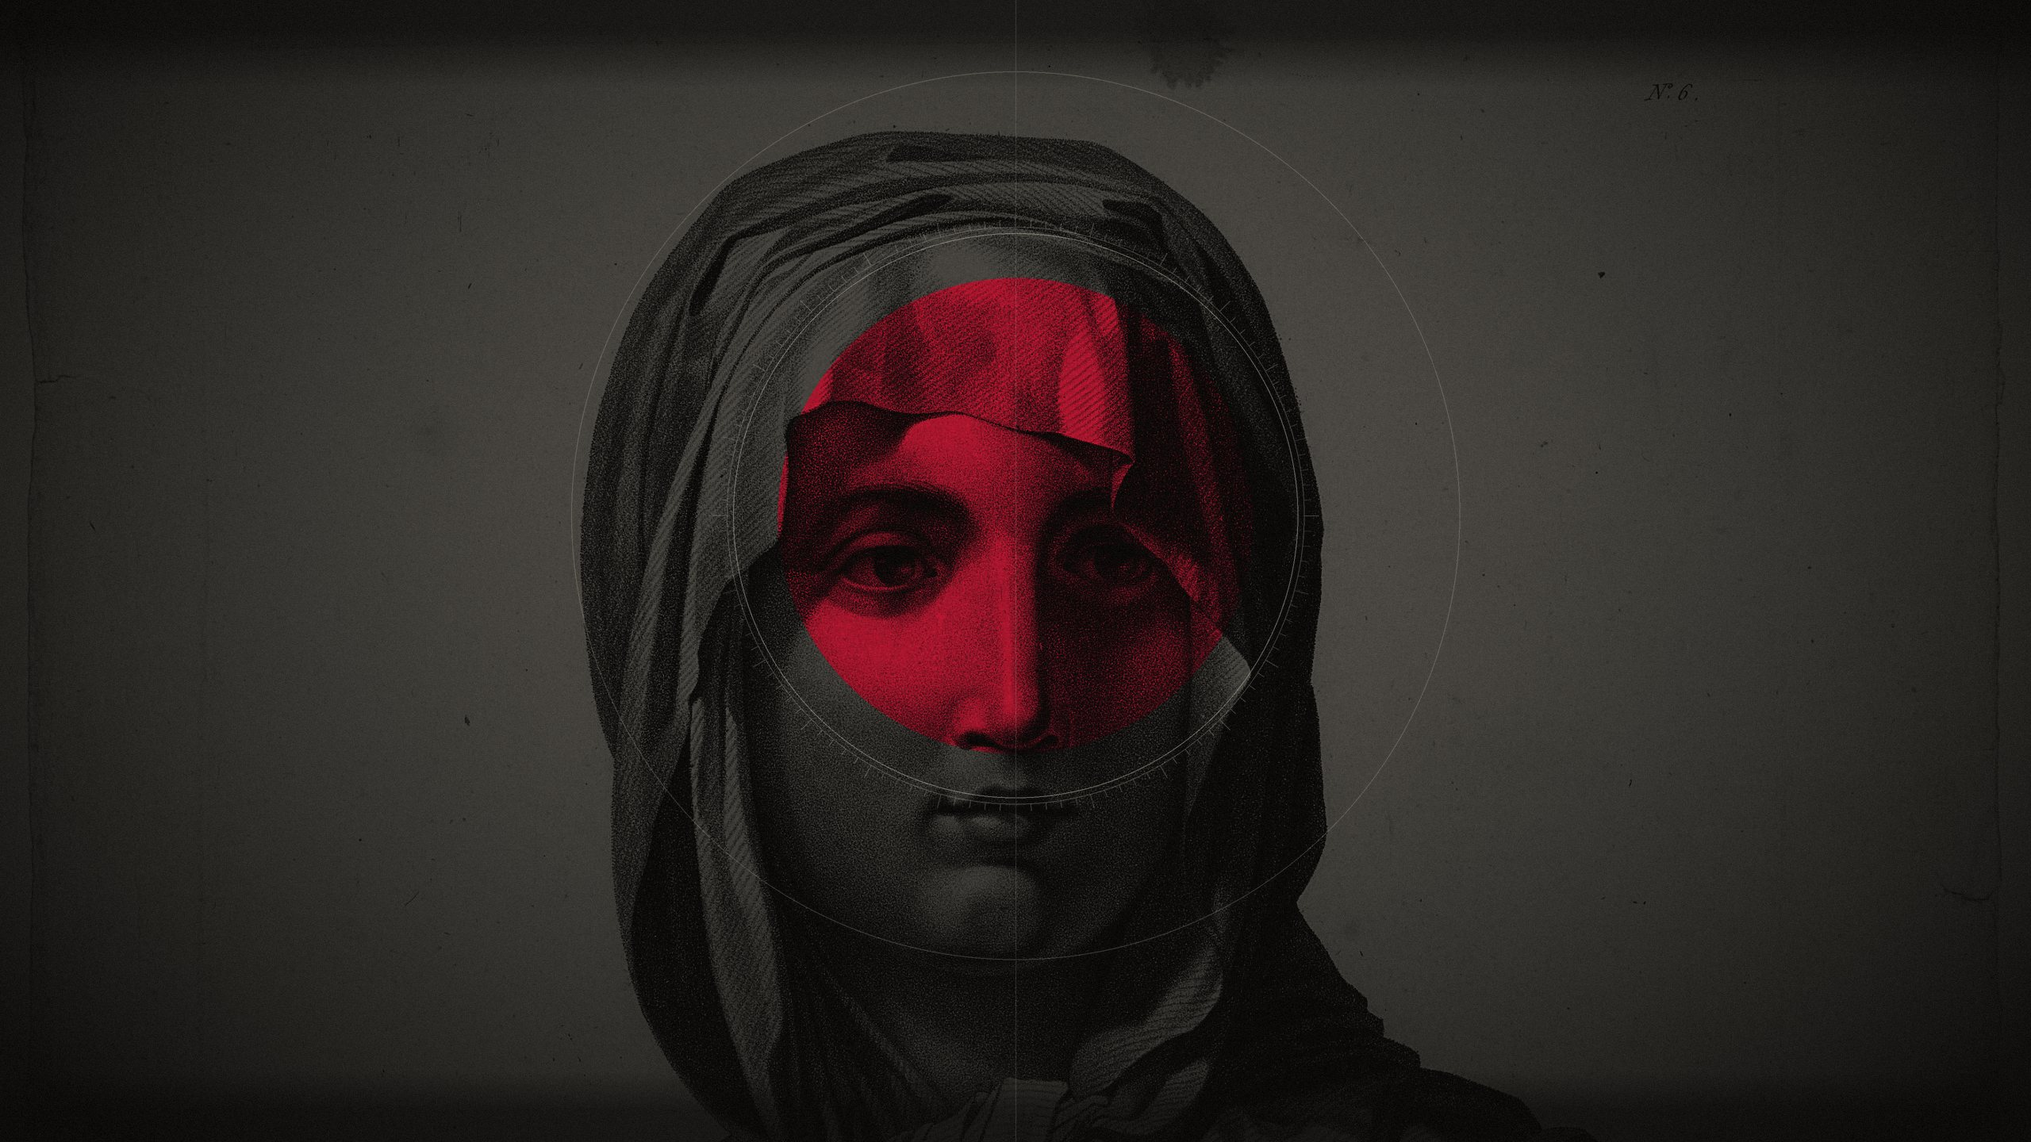
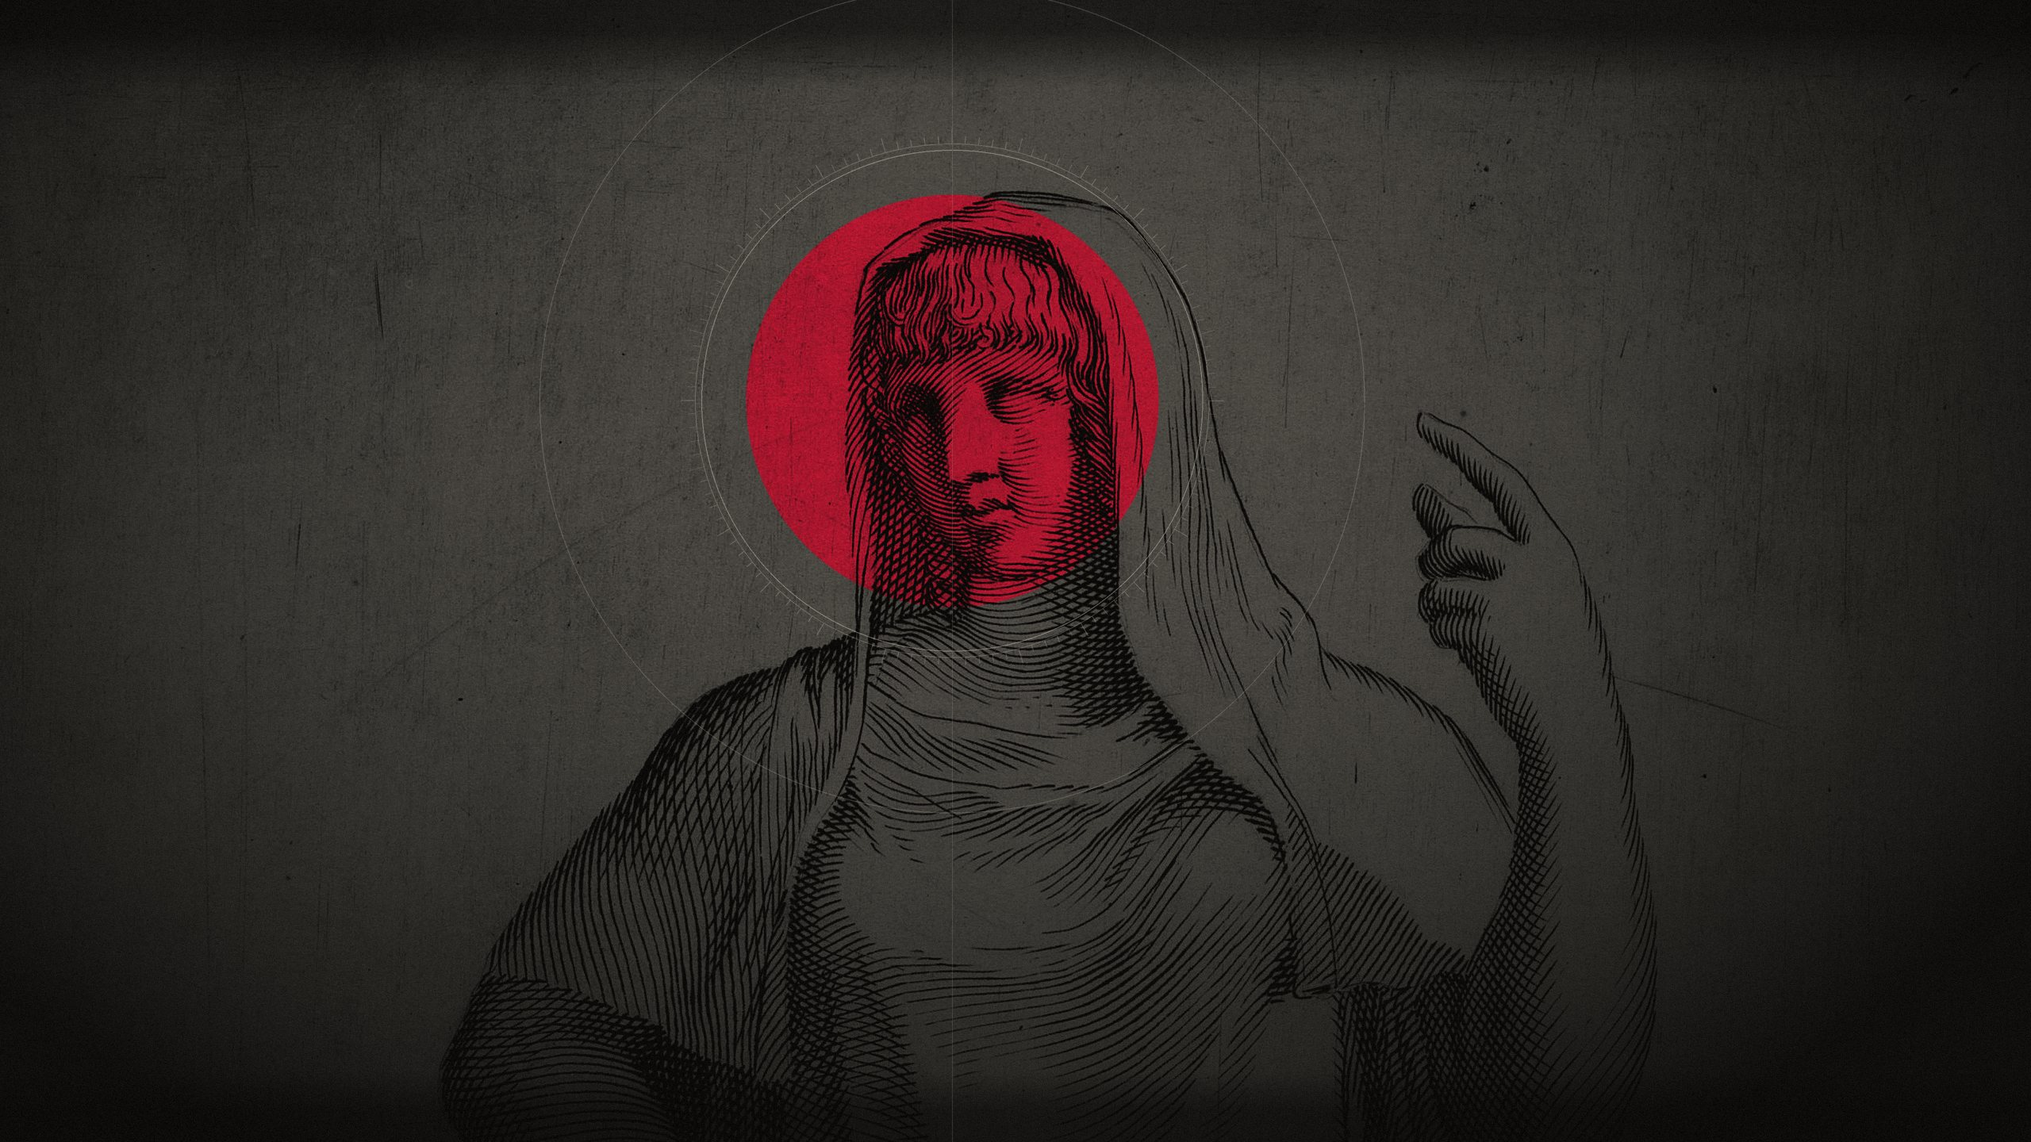
feat(theme): change the plates of Carna and Apollo
Carna is now Claude Mellan's veiled vestal of the Giustiniani collection (1631, Rijksmuseum), Apollo is Goltzius's Sol in his niche (1592, Art Institute of Chicago), which matches Mercurius, Pluto and Bacchus. The wallpaper README now lists the plates from the live data.

Changed region(s): [[0.2188, 0.0938, 0.7812, 0.9688]]

diff --git a/design-system/components/Pantheon/preview.html b/design-system/components/Pantheon/preview.html
@@ -24,7 +24,7 @@
 </div>
 <script>
 Kit.hydrate(document);
-var P = [["carna", "../../assets/Wallpapers/carna.jpg", "Carna", "Cazenave, about 1800", "Carna, keeper of the threshold, who drives the striges from the cradle. No ancient likeness survives; the plate is a veiled vestal, engraved by J. F. Cazenave", "#c8102e"], ["janus", "../../assets/Wallpapers/janus.jpg", "Janus", "Audenaerd, about 1700", "Janus with both faces opens the door of the year. Engraved by Robert van Audenaerd after Carlo Maratta", "#688f7f"], ["apollo", "../../assets/Wallpapers/apollo.jpg", "Apollo", "Goltzius, 1592", "The Apollo Belvedere. Engraved by Hendrick Goltzius, Haarlem, about 1592", "#b5925a"], ["mars", "../../assets/Wallpapers/mars.jpg", "Mars", "Quellinus, 1655", "Mars in armour, a dragon on his helmet. Hubert Quellinus after the statue by Artus Quellinus, Amsterdam, 1655", "#9f5836"], ["minerva", "../../assets/Wallpapers/minerva.jpg", "Minerva", "Saenredam, 1595", "Minerva with helmet, spear and owl. Engraved by Jan Saenredam after Hendrick Goltzius, about 1595", "#878a5d"], ["mercurius", "../../assets/Wallpapers/mercurius.jpg", "Mercurius", "Goltzius, 1592", "Mercurius in his niche. Engraved by Hendrick Goltzius after Polidoro da Caravaggio, 1592", "#546d85"], ["pluto", "../../assets/Wallpapers/pluto.jpg", "Pluto", "Goltzius, 1592", "Pluto in his niche. Engraved by Hendrick Goltzius after Polidoro da Caravaggio, 1592", "#746388"], ["bacchus", "../../assets/Wallpapers/bacchus.jpg", "Bacchus", "Goltzius, 1592", "Bacchus in his niche. Engraved by Hendrick Goltzius after Polidoro da Caravaggio, 1592", "#93535e"]];
+var P = [["carna", "../../assets/Wallpapers/carna.jpg", "Carna", "Mellan, 1631", "Carna, keeper of the threshold, who drives the striges from the cradle. No ancient likeness survives; the plate is a veiled vestal of the Giustiniani collection, engraved by Claude Mellan, Rome, 1631", "#c8102e"], ["janus", "../../assets/Wallpapers/janus.jpg", "Janus", "Audenaerd, about 1700", "Janus with both faces opens the door of the year. Engraved by Robert van Audenaerd after Carlo Maratta", "#688f7f"], ["apollo", "../../assets/Wallpapers/apollo.jpg", "Apollo", "Goltzius, 1592", "Apollo as Sol, the sun, with lyre and quiver in his niche. Engraved by Hendrick Goltzius after Polidoro da Caravaggio, 1592", "#b5925a"], ["mars", "../../assets/Wallpapers/mars.jpg", "Mars", "Quellinus, 1655", "Mars in armour, a dragon on his helmet. Hubert Quellinus after the statue by Artus Quellinus, Amsterdam, 1655", "#9f5836"], ["minerva", "../../assets/Wallpapers/minerva.jpg", "Minerva", "Saenredam, 1595", "Minerva with helmet, spear and owl. Engraved by Jan Saenredam after Hendrick Goltzius, about 1595", "#878a5d"], ["mercurius", "../../assets/Wallpapers/mercurius.jpg", "Mercurius", "Goltzius, 1592", "Mercurius in his niche. Engraved by Hendrick Goltzius after Polidoro da Caravaggio, 1592", "#546d85"], ["pluto", "../../assets/Wallpapers/pluto.jpg", "Pluto", "Goltzius, 1592", "Pluto in his niche. Engraved by Hendrick Goltzius after Polidoro da Caravaggio, 1592", "#746388"], ["bacchus", "../../assets/Wallpapers/bacchus.jpg", "Bacchus", "Goltzius, 1592", "Bacchus in his niche. Engraved by Hendrick Goltzius after Polidoro da Caravaggio, 1592", "#93535e"]];
 
 (function () {
   var scr = document.getElementById('scr'), track = document.getElementById('track'), car = document.getElementById('car'), rev = document.getElementById('rev'), base = document.getElementById('base');

diff --git a/design-system/components/Desktop/preview.html b/design-system/components/Desktop/preview.html
@@ -30,7 +30,7 @@
     <button class="k-power" aria-label="Session"><i class="k-icon" data-icon="power"></i></button>
   </div>
 </div></div>
-  <div class="k-plate" id="plate">Carna. A veiled vestal, engraved by J. F. Cazenave, about 1800</div>
+  <div class="k-plate" id="plate">Carna. A veiled vestal, engraved by Claude Mellan, Rome, 1631</div>
   <div id="tiles" data-hidden>
     <div class="k-win" data-active><div class="k-win-body"><pre class="k-code"><span class="ln"> 1</span>  <span class="cm">// Reads a theme and checks its contrast rules.</span>
 <span class="ln"> 2</span>  <span class="kw">use</span> <span class="ty">std::path::Path</span><span class="op">;</span>

diff --git a/tools/docs.py b/tools/docs.py
@@ -77,7 +77,7 @@ The default theme has eight aspects, one for each god of its wallpapers. Choosin
 ## Ornament
 
 - `.k-rule` is a hair line with a small open lozenge in the middle, as between the parts of an old title page. Use it once in a view to part the mood from the matter: under the wordmark, between the date and the weather, above the update card.
-- `.k-plate` is a plate caption: one line of serif italic naming a picture, in the form "The Apollo Belvedere. Engraved by Hendrick Goltzius, Haarlem, about 1592". Every engraving shown full screen carries one.
+- `.k-plate` is a plate caption: one line of serif italic naming a picture, in the form "Mercurius in his niche. Engraved by Hendrick Goltzius after Polidoro da Caravaggio, 1592". Every engraving shown full screen carries one.
 - InfoBlock's double-line brackets are the only frame. Use them for system facts, once per view.
 - `.k-grain` lays a fine grain over a full-screen picture. Use it on wallpapers only, never on surfaces.
 - That is the whole stock of ornament. No flourishes, corner pieces, drop caps or borders made of pattern.
@@ -279,17 +279,21 @@ WALL_README = r'''# Wallpapers
 
 The pantheon of the default theme: eight Roman gods, each an engraving printed in two inks of the god's aspect, with one disc in the god's colour. Sources: Art Institute of Chicago, open-access collection, released under CC0; Rijksmuseum, open data, Public Domain Mark. Each file is 2560 by 1440 and made by `tools/wallpapers.py`.
 
-- `carna.jpg` — Carna, accent `#c8102e` on `#0b0a09`. the default desktop. Head of a vestal, engraved by J. F. Cazenave after Augustin Raymond Aubert, 1780 to 1820. Rijksmuseum RP-P-2017-9060, public domain.
-- `janus.jpg` — Janus, accent `#2e9a84` on `#060c0a`. the lock screen. Janus opens the door of the year, engraved by Robert van Audenaerd after Carlo Maratta, 1685 to 1723. Rijksmuseum RP-P-OB-67.432, public domain.
-- `apollo.jpg` — Apollo, accent `#d4a21a` on `#0c0a06`. Hendrick Goltzius, The Apollo Belvedere, about 1592. Art Institute of Chicago 1990.498, CC0.
-- `mars.jpg` — Mars, accent `#e0641f` on `#0e0907`. Hubert Quellinus after Artus Quellinus, Mars in the west gallery of the Amsterdam town hall, 1655. Rijksmuseum RP-P-AO-22-1Q-1, public domain.
-- `minerva.jpg` — Minerva, accent `#8f9b2c` on `#0a0b06`. Jan Saenredam after Hendrick Goltzius, Pallas Athena, from Three Goddesses, about 1595. Art Institute of Chicago 2023.161, CC0.
-- `mercurius.jpg` — Mercurius, accent `#448bcd` on `#070b0e`. Hendrick Goltzius after Polidoro da Caravaggio, Mercurius, from Eight Pagan Gods, 1592. Art Institute of Chicago 2023.975, CC0.
-- `pluto.jpg` — Pluto, accent `#7a4fd1` on `#0a090e`. Hendrick Goltzius after Polidoro da Caravaggio, Pluto, from Eight Pagan Gods, 1592. Art Institute of Chicago 2023.970, CC0.
-- `bacchus.jpg` — Bacchus, accent `#b23472` on `#0e090a`. Hendrick Goltzius after Polidoro da Caravaggio, Bacchus, from Eight Pagan Gods, 1592. Art Institute of Chicago 2023.974, CC0.
-- `star-chart.svg` — the plain fallback without a picture: cream lines and the disc. Own drawing. Colours are fixed in the file; `Kit.wallpaper()` gives the version that follows the tokens.
+'''
 
-No ancient likeness of Carna survives. Her plate is a veiled vestal, chosen for the veil and the watchful face, and its caption says so.
+def _plates():
+    import pantheon, wallpapers
+    role = {'carna': ' The default desktop.', 'janus': ' The lock screen.'}
+    rows = []
+    for g in pantheon.GODS:
+        credit = wallpapers.PLATES[g[0]][3]
+        t = pantheon.aspect(g[0])
+        rows.append('- `%s.jpg` — %s: accent `%s` on `%s`.%s %s.' % (g[0], g[1], t['accent'], t['background'], role.get(g[0], ''), credit.rstrip('.')))
+    return '\n'.join(rows) + '\n'
+
+WALL_README += _plates() + r'''- `star-chart.svg` — the plain fallback without a picture: cream lines and the disc. Own drawing. Colours are fixed in the file; `Kit.wallpaper()` gives the version that follows the tokens.
+
+No ancient likeness of Carna survives. Her plate is a statue of a veiled vestal with a raised hand, as if warding something off, and its caption says so.
 
 Treatment of a plate: crop to the head and upper body at 16:9; paper becomes `line` at 46%, ink becomes the aspect's `background`; inside the disc the paper becomes the aspect's `accent` at 90% with a little of the cream under it; darken toward the edges, hardest along the top 110px and the bottom 90px; add fine grain.
 

diff --git a/tools/components.py b/tools/components.py
@@ -3,7 +3,7 @@ import json
 def I(n, cls=''):
     return '<i class="k-icon%s" data-icon="%s"></i>' % ((' ' + cls) if cls else '', n)
 
-BLOBS = {'c2fed1a6ff87b9c51e1417c413bd869d': 'carna.jpg', 'e6dec074eb9b7a654bf95f13d282f2c2': 'janus.jpg', 'd735047cea0ba70ed7848aa9bc72824e': 'apollo.jpg', '3ce42143088aadf856d6c3ff5e29859e': 'mars.jpg', 'b4ec8e071ce499247b7f5574f8ea26c2': 'minerva.jpg', 'f23de46dea7fe1908c7bd773b98dd1ae': 'mercurius.jpg', '29b44e5ca900dac5a146387c59ae71a1': 'pluto.jpg', '0b1aff047346223424503ef8f1b62a91': 'bacchus.jpg'}
+BLOBS = {'5c259dc8ec61ba29431e7649ca47ec6a': 'carna.jpg', 'e6dec074eb9b7a654bf95f13d282f2c2': 'janus.jpg', 'b41733760ffae9de3f6f5d88682af092': 'apollo.jpg', '3ce42143088aadf856d6c3ff5e29859e': 'mars.jpg', 'b4ec8e071ce499247b7f5574f8ea26c2': 'minerva.jpg', 'f23de46dea7fe1908c7bd773b98dd1ae': 'mercurius.jpg', '29b44e5ca900dac5a146387c59ae71a1': 'pluto.jpg', '0b1aff047346223424503ef8f1b62a91': 'bacchus.jpg'}
 CARNA, JANUS, APOLLO, MARS, MINERVA, MERCURIUS, PLUTO, BACCHUS = ['/_blob/' + k for k in BLOBS]
 def WALL(url, extra='', pos='center'):
     return '<div class="k-wall"%s style="background-image:url(%s);background-position:%s"></div>' % (extra, url, pos)
@@ -889,7 +889,7 @@ screen('Desktop', 720, r'''
   ''' + WALL(CARNA) + r'''
   <div class="k-grain"></div>
   <div style="position:absolute;inset:0 0 auto 0">''' + BAR + r'''</div>
-  <div class="k-plate" id="plate">Carna. A veiled vestal, engraved by J. F. Cazenave, about 1800</div>
+  <div class="k-plate" id="plate">Carna. A veiled vestal, engraved by Claude Mellan, Rome, 1631</div>
   <div id="tiles" data-hidden>
     <div class="k-win" data-active><div class="k-win-body"><pre class="k-code">''' + CODE + r'''</pre></div></div>
     <div class="k-win"><div class="k-win-body"><div style="display:flex;gap:20px;align-items:center"><div style="text-align:center"><div class="k-wordmark">Strix</div><div class="k-motto" style="font-size:11px">nocte vigilat</div></div>
@@ -991,9 +991,9 @@ The theme picker over the dimmed desktop: a carousel of SlantCards, the name of 
 
 import pantheon as _pan
 _CAP = {
-    'carna': ('Cazenave, about 1800', 'Carna, keeper of the threshold, who drives the striges from the cradle. No ancient likeness survives; the plate is a veiled vestal, engraved by J. F. Cazenave'),
+    'carna': ('Mellan, 1631', 'Carna, keeper of the threshold, who drives the striges from the cradle. No ancient likeness survives; the plate is a veiled vestal of the Giustiniani collection, engraved by Claude Mellan, Rome, 1631'),
     'janus': ('Audenaerd, about 1700', 'Janus with both faces opens the door of the year. Engraved by Robert van Audenaerd after Carlo Maratta'),
-    'apollo': ('Goltzius, 1592', 'The Apollo Belvedere. Engraved by Hendrick Goltzius, Haarlem, about 1592'),
+    'apollo': ('Goltzius, 1592', 'Apollo as Sol, the sun, with lyre and quiver in his niche. Engraved by Hendrick Goltzius after Polidoro da Caravaggio, 1592'),
     'mars': ('Quellinus, 1655', 'Mars in armour, a dragon on his helmet. Hubert Quellinus after the statue by Artus Quellinus, Amsterdam, 1655'),
     'minerva': ('Saenredam, 1595', 'Minerva with helmet, spear and owl. Engraved by Jan Saenredam after Hendrick Goltzius, about 1595'),
     'mercurius': ('Goltzius, 1592', 'Mercurius in his niche. Engraved by Hendrick Goltzius after Polidoro da Caravaggio, 1592'),

diff --git a/tools/wallpapers.py b/tools/wallpapers.py
@@ -28,12 +28,12 @@ CREAM = np.array([0xd8, 0xd0, 0xc0], float)
 # god: (source, crop as x0, y0, x1 of the scan (y1 follows from 16:9), disc centre x, y and radius in px, credit[, options for make()])
 # source is ('aic', IIIF image id) or ('rijks', Micrio id, width to fetch)
 PLATES = {
-    'carna': (('rijks', 'phqRO', 3000), (0.0, 0.13, 1.0), (1280, 650, 300),
-              'Head of a vestal, engraved by J. F. Cazenave after Augustin Raymond Aubert, 1780 to 1820. Rijksmuseum RP-P-2017-9060, public domain', {'paper': 0.36}),
+    'carna': (('rijks', 'fIyei', 4140), (0.20, 0.16, 0.80), (1200, 505, 260),
+              'Claude Mellan, Statue of a vestal in the Giustiniani collection, 1631, published 1636 to 1637. Rijksmuseum RP-P-OB-71.030, public domain', {'paper': 0.38}),
     'janus': (('rijks', 'jGPOs', 6098), (0.36, 0.23, 0.74), (1110, 450, 300),
               'Janus opens the door of the year, engraved by Robert van Audenaerd after Carlo Maratta, 1685 to 1723. Rijksmuseum RP-P-OB-67.432, public domain'),
-    'apollo': (('aic', 'fed2add8-1ef4-aee4-b063-09fb4363b207'), (0.12, 0.08, 0.88), (1010, 430, 330),
-               'Hendrick Goltzius, The Apollo Belvedere, about 1592. Art Institute of Chicago 1990.498, CC0'),
+    'apollo': (('aic', 'f9b4ca78-b118-0595-7e4d-ea082b618d9d'), (0.10, 0.12, 0.90), (1297, 585, 250),
+               'Hendrick Goltzius after Polidoro da Caravaggio, Sol, from Eight Pagan Gods, 1592. Art Institute of Chicago 2023.972, CC0'),
     'mars': (('rijks', 'yzhwS', 3064), (0.22, 0.17, 0.84), (1060, 560, 260),
              'Hubert Quellinus after Artus Quellinus, Mars in the west gallery of the Amsterdam town hall, 1655. Rijksmuseum RP-P-AO-22-1Q-1, public domain'),
     'minerva': (('aic', '27c735cb-2d28-bf3f-d67b-3bea6278957c'), (0.0, 0.10, 1.0), (1580, 700, 300),

diff --git a/design-system/assets/Wallpapers/README.md b/design-system/assets/Wallpapers/README.md
@@ -2,17 +2,17 @@
 
 The pantheon of the default theme: eight Roman gods, each an engraving printed in two inks of the god's aspect, with one disc in the god's colour. Sources: Art Institute of Chicago, open-access collection, released under CC0; Rijksmuseum, open data, Public Domain Mark. Each file is 2560 by 1440 and made by `tools/wallpapers.py`.
 
-- `carna.jpg` — Carna, accent `#c8102e` on `#0b0a09`. the default desktop. Head of a vestal, engraved by J. F. Cazenave after Augustin Raymond Aubert, 1780 to 1820. Rijksmuseum RP-P-2017-9060, public domain.
-- `janus.jpg` — Janus, accent `#2e9a84` on `#060c0a`. the lock screen. Janus opens the door of the year, engraved by Robert van Audenaerd after Carlo Maratta, 1685 to 1723. Rijksmuseum RP-P-OB-67.432, public domain.
-- `apollo.jpg` — Apollo, accent `#d4a21a` on `#0c0a06`. Hendrick Goltzius, The Apollo Belvedere, about 1592. Art Institute of Chicago 1990.498, CC0.
-- `mars.jpg` — Mars, accent `#e0641f` on `#0e0907`. Hubert Quellinus after Artus Quellinus, Mars in the west gallery of the Amsterdam town hall, 1655. Rijksmuseum RP-P-AO-22-1Q-1, public domain.
-- `minerva.jpg` — Minerva, accent `#8f9b2c` on `#0a0b06`. Jan Saenredam after Hendrick Goltzius, Pallas Athena, from Three Goddesses, about 1595. Art Institute of Chicago 2023.161, CC0.
-- `mercurius.jpg` — Mercurius, accent `#448bcd` on `#070b0e`. Hendrick Goltzius after Polidoro da Caravaggio, Mercurius, from Eight Pagan Gods, 1592. Art Institute of Chicago 2023.975, CC0.
-- `pluto.jpg` — Pluto, accent `#7a4fd1` on `#0a090e`. Hendrick Goltzius after Polidoro da Caravaggio, Pluto, from Eight Pagan Gods, 1592. Art Institute of Chicago 2023.970, CC0.
-- `bacchus.jpg` — Bacchus, accent `#b23472` on `#0e090a`. Hendrick Goltzius after Polidoro da Caravaggio, Bacchus, from Eight Pagan Gods, 1592. Art Institute of Chicago 2023.974, CC0.
+- `carna.jpg` — Carna: accent `#c8102e` on `#0b0a09`. The default desktop. Claude Mellan, Statue of a vestal in the Giustiniani collection, 1631, published 1636 to 1637. Rijksmuseum RP-P-OB-71.030, public domain.
+- `janus.jpg` — Janus: accent `#688f7f` on `#070c09`. The lock screen. Janus opens the door of the year, engraved by Robert van Audenaerd after Carlo Maratta, 1685 to 1723. Rijksmuseum RP-P-OB-67.432, public domain.
+- `apollo.jpg` — Apollo: accent `#b5925a` on `#0d0a06`. Hendrick Goltzius after Polidoro da Caravaggio, Sol, from Eight Pagan Gods, 1592. Art Institute of Chicago 2023.972, CC0.
+- `mars.jpg` — Mars: accent `#9f5836` on `#0e0907`. Hubert Quellinus after Artus Quellinus, Mars in the west gallery of the Amsterdam town hall, 1655. Rijksmuseum RP-P-AO-22-1Q-1, public domain.
+- `minerva.jpg` — Minerva: accent `#878a5d` on `#0a0b06`. Jan Saenredam after Hendrick Goltzius, Pallas Athena, from Three Goddesses, about 1595. Art Institute of Chicago 2023.161, CC0.
+- `mercurius.jpg` — Mercurius: accent `#546d85` on `#070b0e`. Hendrick Goltzius after Polidoro da Caravaggio, Mercurius, from Eight Pagan Gods, 1592. Art Institute of Chicago 2023.975, CC0.
+- `pluto.jpg` — Pluto: accent `#746388` on `#0b090e`. Hendrick Goltzius after Polidoro da Caravaggio, Pluto, from Eight Pagan Gods, 1592. Art Institute of Chicago 2023.970, CC0.
+- `bacchus.jpg` — Bacchus: accent `#93535e` on `#0e0909`. Hendrick Goltzius after Polidoro da Caravaggio, Bacchus, from Eight Pagan Gods, 1592. Art Institute of Chicago 2023.974, CC0.
 - `star-chart.svg` — the plain fallback without a picture: cream lines and the disc. Own drawing. Colours are fixed in the file; `Kit.wallpaper()` gives the version that follows the tokens.
 
-No ancient likeness of Carna survives. Her plate is a veiled vestal, chosen for the veil and the watchful face, and its caption says so.
+No ancient likeness of Carna survives. Her plate is a statue of a veiled vestal with a raised hand, as if warding something off, and its caption says so.
 
 Treatment of a plate: crop to the head and upper body at 16:9; paper becomes `line` at 46%, ink becomes the aspect's `background`; inside the disc the paper becomes the aspect's `accent` at 90% with a little of the cream under it; darken toward the edges, hardest along the top 110px and the bottom 90px; add fine grain.
 

diff --git a/design-system/README.md b/design-system/README.md
@@ -77,7 +77,7 @@ The default theme has eight aspects, one for each god of its wallpapers. Choosin
 ## Ornament
 
 - `.k-rule` is a hair line with a small open lozenge in the middle, as between the parts of an old title page. Use it once in a view to part the mood from the matter: under the wordmark, between the date and the weather, above the update card.
-- `.k-plate` is a plate caption: one line of serif italic naming a picture, in the form "The Apollo Belvedere. Engraved by Hendrick Goltzius, Haarlem, about 1592". Every engraving shown full screen carries one.
+- `.k-plate` is a plate caption: one line of serif italic naming a picture, in the form "Mercurius in his niche. Engraved by Hendrick Goltzius after Polidoro da Caravaggio, 1592". Every engraving shown full screen carries one.
 - InfoBlock's double-line brackets are the only frame. Use them for system facts, once per view.
 - `.k-grain` lays a fine grain over a full-screen picture. Use it on wallpapers only, never on surfaces.
 - That is the whole stock of ornament. No flourishes, corner pieces, drop caps or borders made of pattern.
